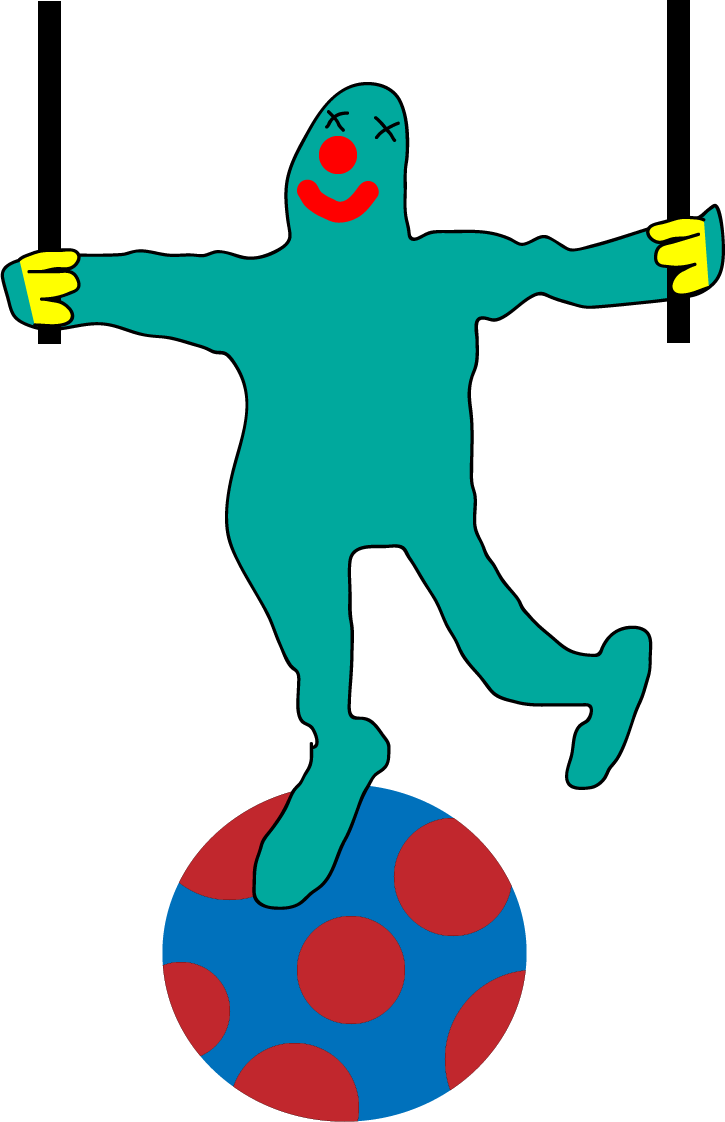
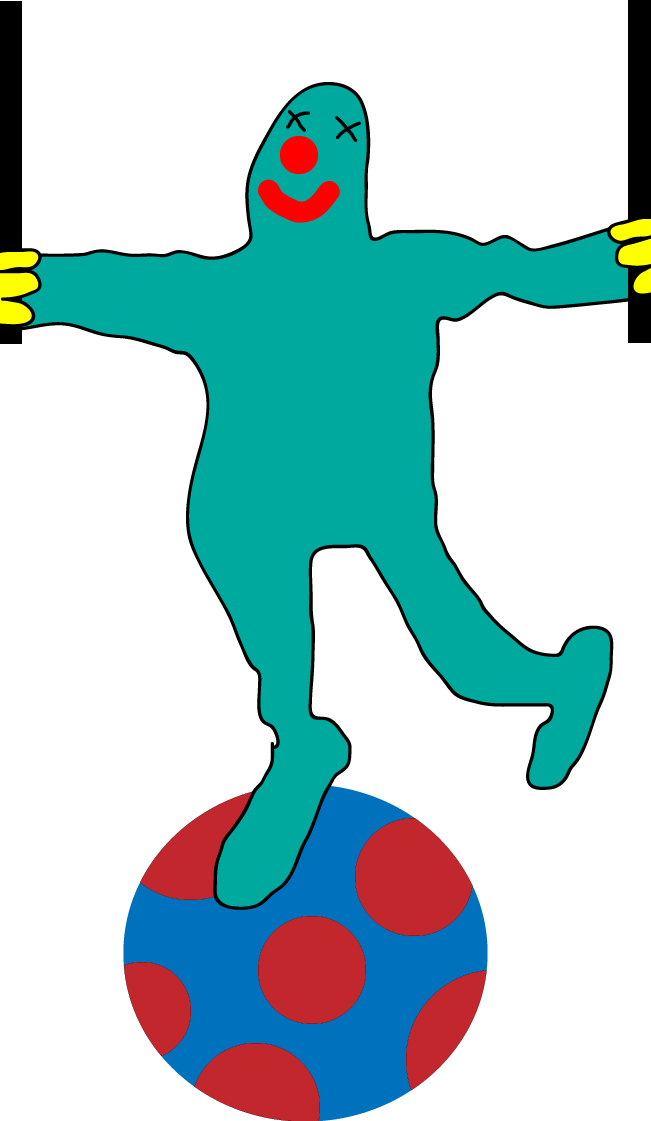
Can move clown with keyboard, added some methods to clown

diff --git a/src/view/Circus.java b/src/view/Circus.java
@@ -12,12 +12,14 @@ public class Circus implements World {
     private List<GameObject> constantObjects = new LinkedList<GameObject>();
     private List<GameObject> movableObjects = new LinkedList<GameObject>();
     private List<GameObject> controllableObjects = new LinkedList<GameObject>();
+    private static int MAX_TIME = 1 * 60 * 1000;	// 1 minute
+    private long endTime = System.currentTimeMillis(), startTime = System.currentTimeMillis();
     private final int width;
     private final int height;
     private Levels level;
     private Clown clown;
 
-    private Circus(int screenWidth, int screenHeight, Levels level){
+    private Circus(int screenWidth, int screenHeight, Levels level)  {
         this.level = level;
         this.width = screenWidth;
         this.height = screenHeight;
@@ -32,7 +34,9 @@ public class Circus implements World {
 
     // Initializes clown object and adds it to our World
     public void initializeClown(){
-        clown = new Clown((int) Math.round(width / 2.0)-((int) (Math.round(width * 0.25) /2)), height-(int) Math.round(height * 0.47), (int) Math.round(width * 0.25), (int) Math.round(height * 0.45), this);
+        int clownWidth = (int) Math.round(height * 0.35);
+        int clownHeight = (int) Math.round(height * 0.37);
+        clown = new Clown((int) Math.round(width / 2.0)-(clownWidth /2), height-clownHeight-15, clownWidth, clownHeight , this);
         this.getControlableObjects().add(clown);
     }
 
@@ -63,22 +67,25 @@ public class Circus implements World {
 
     @Override
     public boolean refresh() {
-        System.out.println("here");
-        return false;
+        boolean timeout = System.currentTimeMillis() - startTime > MAX_TIME;
+        if(!timeout){
+            endTime = System.currentTimeMillis();
+        }
+        return true;
     }
 
     @Override
     public String getStatus() {
-        return null;
+        return "Time=" + Math.max(0, (MAX_TIME - (endTime-startTime))/1000);
     }
 
     @Override
     public int getSpeed() {
-        return 100;
+        return 5;
     }
 
     @Override
     public int getControlSpeed() {
-        return 0;
+        return 20;
     }
 }

diff --git a/src/model/Clown.java b/src/model/Clown.java
@@ -3,6 +3,7 @@ package model;
 import eg.edu.alexu.csd.oop.game.GameObject;
 import view.Circus;
 
+import java.awt.*;
 import java.awt.image.BufferedImage;
 
 public class Clown extends ImageObject implements GameObject{
@@ -12,11 +13,24 @@ public class Clown extends ImageObject implements GameObject{
     public Clown(int x, int y, int width, int height, Circus circus){
         super(x,y,"/clown.png", width, height);
         this.circus = circus;
+        System.out.println(getX() + " " + getY());
 
+    }
+
+    public Point getLeftStickPosition(){
+        return new Point(this.getX() + 5,this.getY());
+    }
+
+    public Point getRightStickPosition(){
+        return new Point(this.getX() + this.getWidth() - 5,this.getY());
     }
 
 //    public void addToWorld(){
 //        this.circus.getControlableObjects().add(this);
 //    }
 
+    @Override
+    public void setY(int mY) {
+        return;
+    }
 }

diff --git a/src/model/ImageObject.java b/src/model/ImageObject.java
@@ -11,11 +11,11 @@ import eg.edu.alexu.csd.oop.game.GameObject;
 public class ImageObject implements GameObject{
     private static final int MAX_MSTATE = 1;
     // an array of sprite images that are drawn sequentially
-    protected BufferedImage[] spriteImages = new BufferedImage[MAX_MSTATE];
-    protected int width;
-    protected int height;
-    protected int x;
-    protected int y;
+    private BufferedImage[] spriteImages = new BufferedImage[MAX_MSTATE];
+    private int width;
+    private int height;
+    private int x;
+    private int y;
     private boolean visible;
 
     public ImageObject(int posX, int posY, String path, int width, int height){

diff --git a/src/Main.java b/src/Main.java
@@ -1,4 +1,5 @@
 import eg.edu.alexu.csd.oop.game.GameEngine;
+import model.Levels;
 import view.Circus;
 import view.MainMenu;
 
@@ -20,7 +21,7 @@ public class Main {
 //        menu.add(resumeMenuItem);
 //        menuBar.add(menu);
 //
-//        final GameEngine.GameController gameController = GameEngine.start("8139 8277 8082", Circus.getInstance(), menuBar, Color.WHITE);
+//        final GameEngine.GameController gameController = GameEngine.start("8139 8277 8082", new Circus(Levels.EASY), Color.WHITE);
 
     }
 }
